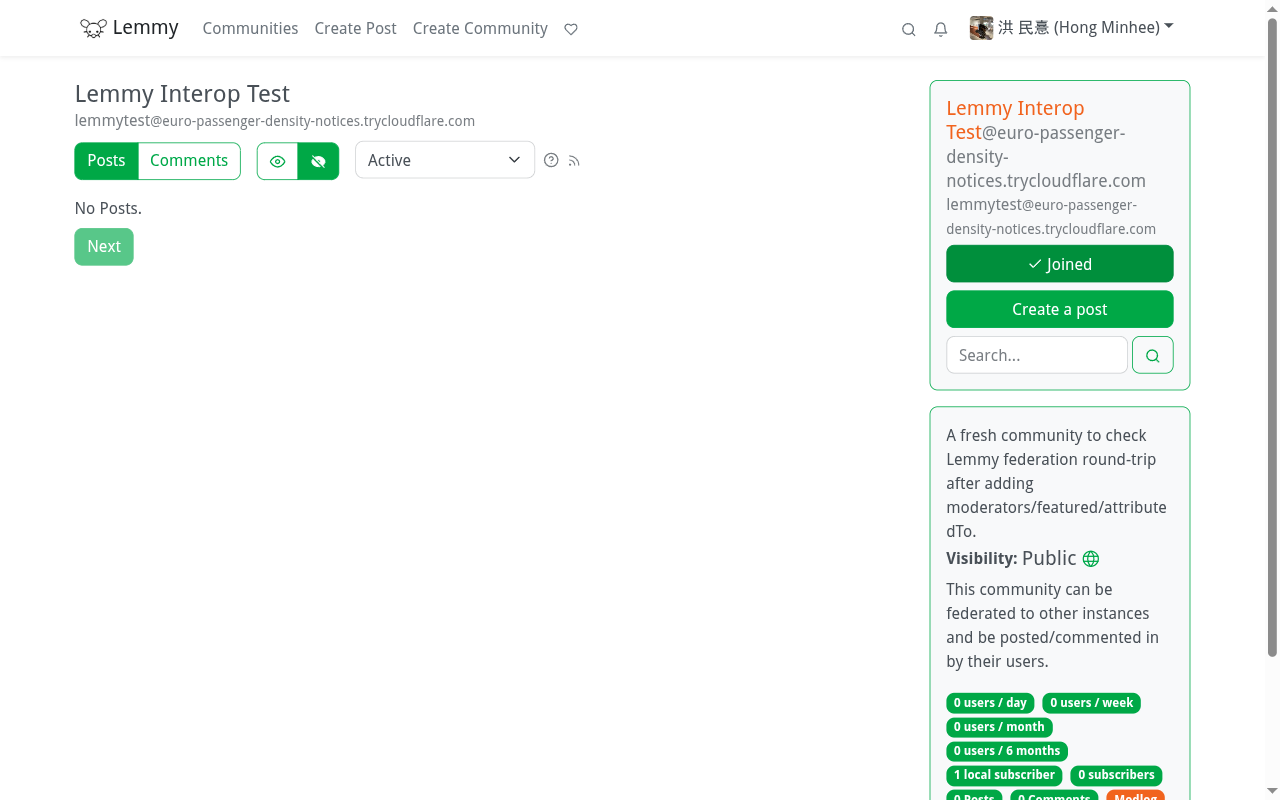
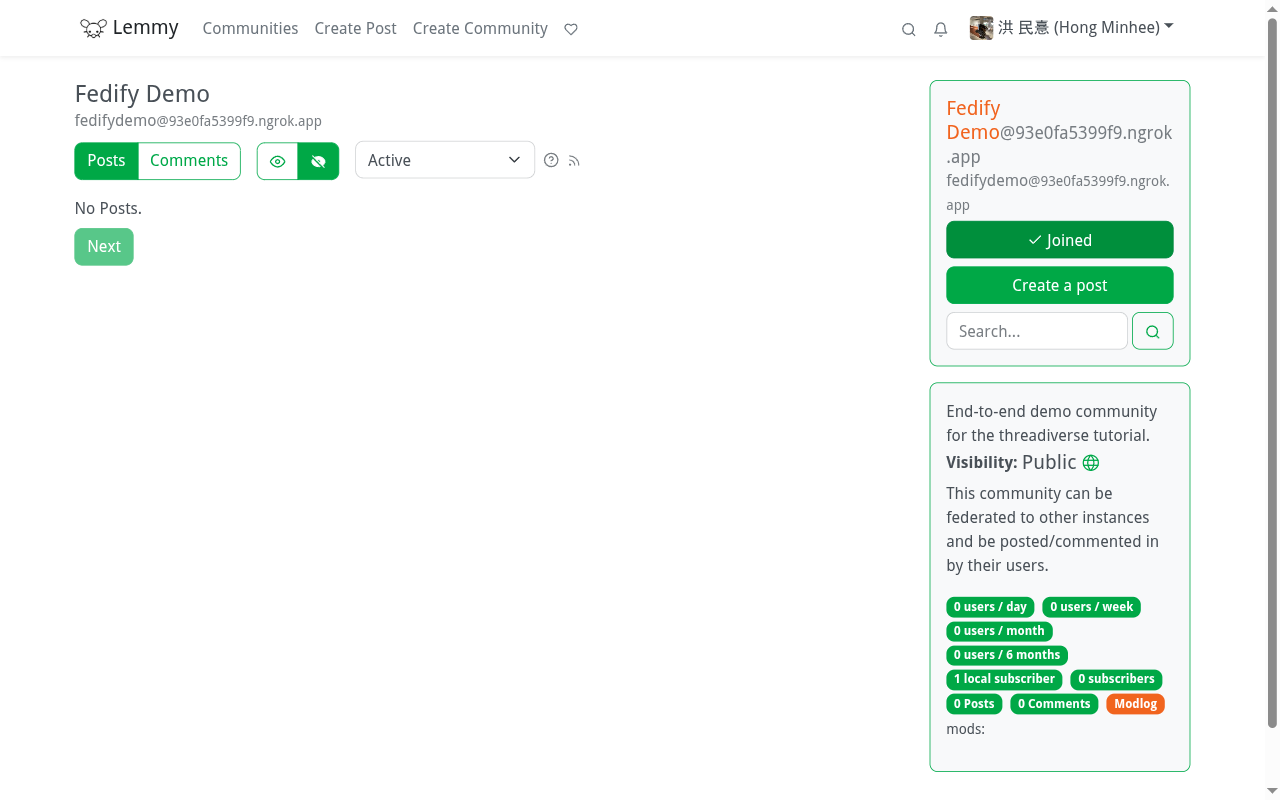
Tutorial: update Lemmy interop status after tunnel-agnostic fix
Revise the WARNING callout in *Making the community actor Lemmy-
compatible* to reflect what actually works against lemmy.ml today:

 -  Inbound `Follow`, outbound `Follow`, `Accept(Follow)`, and
    `Undo(Follow)` all round-trip cleanly over both ngrok and
    named Cloudflare tunnels in both directions.  The earlier
    wording blamed Cloudflare quick tunnels for the digest
    mismatch, which turned out to be a red herring once we had
    proper logging.
 -  The remaining blocker is Lemmy returning
    `{"error":"object_is_not_public"}` on our community's fan-out
    `Announce(Create(Page))`.  It's a nested-object audience shape
    issue, not a tunnel issue — Mastodon, Mbin, and Peertube accept
    the same activity — and the fix belongs in the example repo's
    open items rather than in the tutorial.

Also refresh *docs/tutorial/threadiverse/lemmy-subscribed.png* to
the ngrok-hosted community screenshot, which is cleaner and matches
the reader's expected host format.

Assisted-By: Claude Code:claude-opus-4-7

Changed region(s): [[0.7188, 0.125, 0.9375, 1.0], [0.0625, 0.0938, 0.375, 0.1562], [0.9688, 0.8125, 1.0, 0.9062]]

diff --git a/docs/tutorial/threadiverse.md b/docs/tutorial/threadiverse.md
@@ -4002,16 +4002,18 @@ https://lemmy.ml/u/<your-username>|1
 ![Screenshot: the Lemmy community page says “Joined” after the round-trip](./threadiverse/lemmy-subscribed.png)
 
 > [!WARNING]
-> Inbound `Follow` → `Accept(Follow)` works reliably through
-> Cloudflare quick tunnels (`cloudflared tunnel --url …`).  Outbound
-> `Announce(Create(Page))` — the redistribution half — is,
-> at the time of writing, sometimes rejected by Lemmy's
-> HTTP-signature digest check with
-> `"Incoming activity has invalid digest for body"` when the tunnel re-frames
-> the HTTP/2 body in transit.  Switching to a named Cloudflare tunnel or to
-> [`serveo`] / [`ngrok`] sidesteps this.  For production, put the app behind a
-> normal reverse proxy (Caddy, nginx); `Announce` fan-out there works
-> identically to `Follow` / `Accept`.
+> `Follow` / `Accept(Follow)` / `Undo(Follow)` round-trip cleanly
+> through both [ngrok] and a named Cloudflare tunnel in both
+> directions, and a local user can follow a remote Lemmy community
+> too.  Outbound `Announce(Create(Page))` — the fan-out a community
+> does when a new thread arrives — is currently rejected by Lemmy's
+> inbox with `{"error":"object_is_not_public"}` because Lemmy
+> insists on a very specific audience shape on the nested
+> `Create`/`Page`.  Mastodon, Mbin, and Peertube accept the same
+> activity as is; full-mesh Lemmy Announce compatibility needs
+> more serialization tuning and is tracked in the
+> [example repository]
+> rather than in the tutorial.
 
 > [!TIP]
 > Lemmy additionally sends a boolean `postingRestrictedToMods` on
@@ -4022,8 +4024,7 @@ https://lemmy.ml/u/<your-username>|1
 > custom JSON-LD context; see the
 > [Fedify vocab docs](../manual/vocab.md) for the escape hatch.
 
-[`serveo`]: https://serveo.net/
-[`ngrok`]: https://ngrok.com/
+[example repository]: https://github.com/fedify-dev/threadiverse
 
 
 Areas to improve
